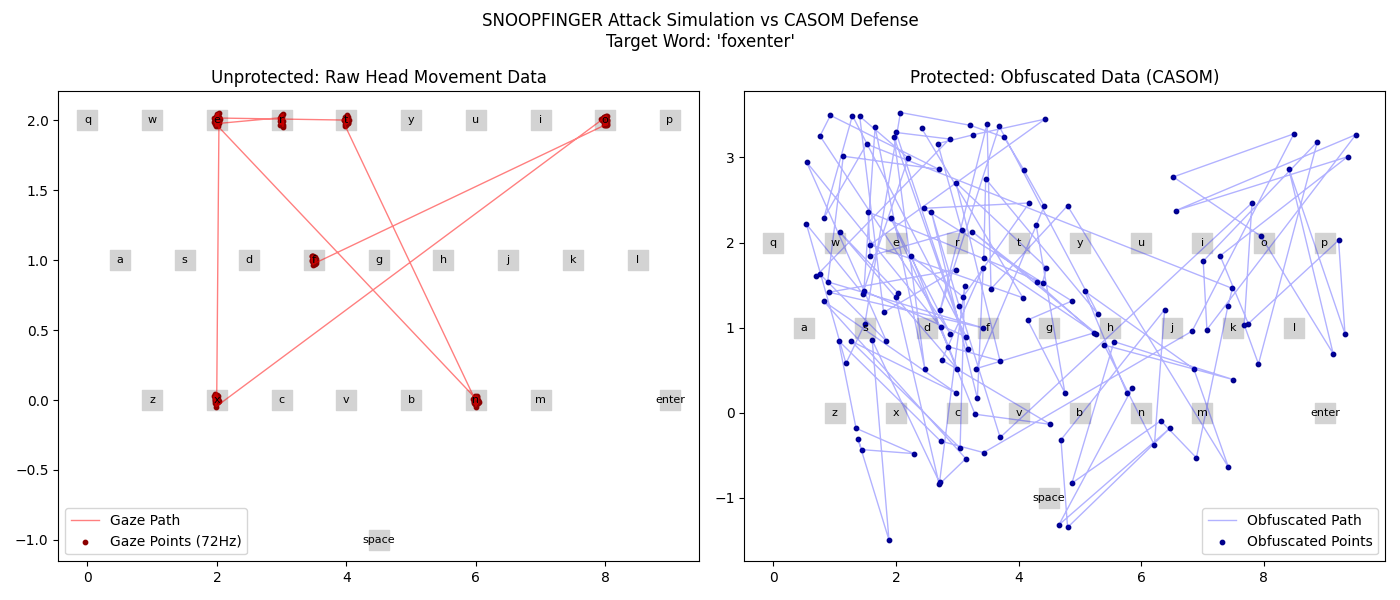
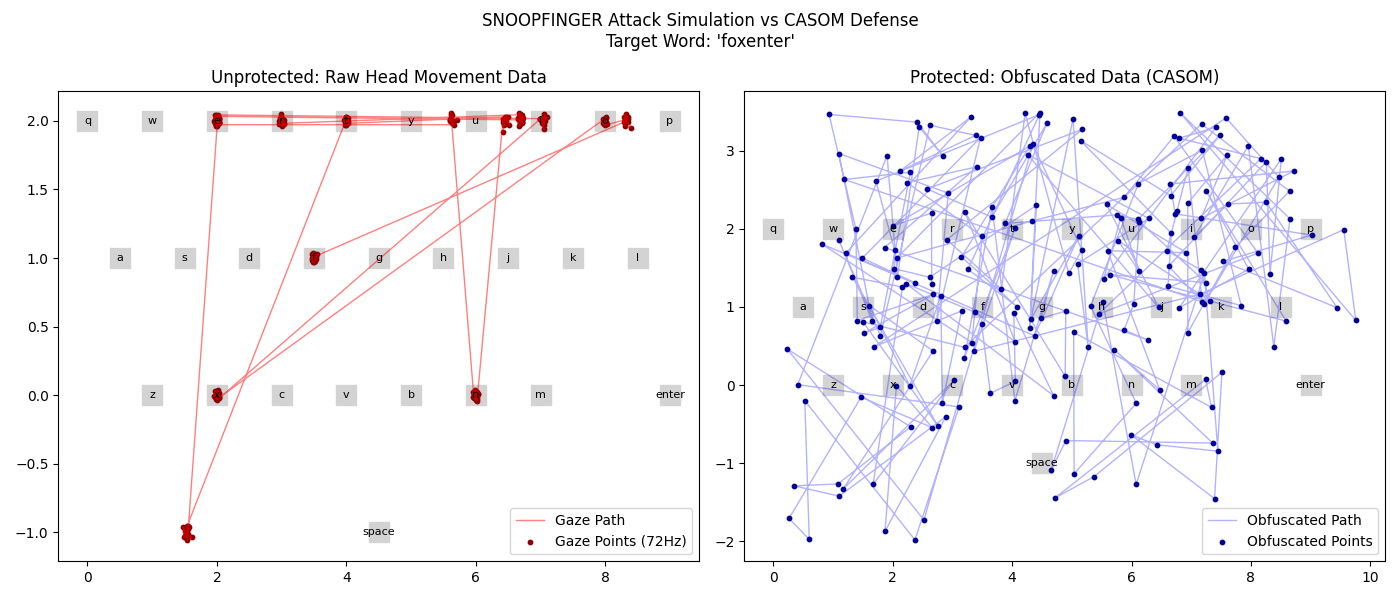
Document and simulate newly identified gaps (deviation gestures, external tampering) in SNOOPFINGER

diff --git a/Demo.html b/Demo.html
@@ -768,6 +768,21 @@
             </div>
           </div>
           
+          <div class="form-group" style="margin-bottom: 24px; border-top: 1px solid var(--border-color); padding-top: 16px;">
+            <label>Simulation Bypasses</label>
+            <div style="display: flex; flex-direction: column; gap: 10px; margin-top: 8px;">
+              <label style="display: flex; align-items: center; gap: 8px; text-transform: none; font-size: 0.85rem; color: var(--text-primary); cursor: pointer;">
+                <input type="checkbox" id="chk-deviation" style="cursor: pointer; width: 16px; height: 16px;">
+                User Deviation Gestures (Gap 1)
+              </label>
+              <label style="display: flex; align-items: center; gap: 8px; text-transform: none; font-size: 0.85rem; color: var(--text-primary); cursor: pointer;">
+                <input type="checkbox" id="chk-tampering" style="cursor: pointer; width: 16px; height: 16px;">
+                External Sensor Tampering (Gap 2)
+              </label>
+            </div>
+            <span class="helper-text" style="margin-top: 6px;">Demonstrates that both active user-driven motions and external vibrations bypass SNOOPFINGER's passive threat model.</span>
+          </div>
+          
           <button type="button" id="btn-play" class="btn btn-primary">
             <span>Start Telemetry Stream</span>
           </button>
@@ -955,6 +970,21 @@
             </div>
 
             <div>
+              <h3 style="margin-bottom: 12px; color: #ffffff;">Critical Gaps in SNOOPFINGER's Attack Model</h3>
+              <p style="color: var(--text-secondary); margin-bottom: 14px;">
+                While SNOOPFINGER's threat model holds under passive conditions, it contains two fundamental assumptions that can easily be exploited to neutralize the threat:
+              </p>
+              <ul style="color: var(--text-secondary); margin-left: 20px; margin-bottom: 14px; display: flex; flex-direction: column; gap: 8px;">
+                <li>
+                  <strong>User Deviation Gestures (Gap 1 - Manual Bypass)</strong>: The attack relies on passive, direct head trajectories matching key coordinates. If a user intentionally makes random or sweeping head movements (e.g. nodding, circular detours) while typing, the background attacker receives these gestures. The attack has no mechanism to differentiate real typing dwells from user-driven detour gestures, resulting in completely scrambled keystroke outputs.
+                </li>
+                <li>
+                  <strong>External Sensor Tampering & Environmental Noise (Gap 2 - Environmental Fragility)</strong>: The attack assumes that head orientation data represents only typing gestures. Physical vibrations (like riding a bumpy bus, walking) or hardware-level sensor noise injection alter the raw telemetry. The attack algorithm has no sensor-origin verification and cannot separate target key dwells from external vibrations, rendering the attack fragile outside a static environment.
+                </li>
+              </ul>
+            </div>
+
+            <div>
               <h3 style="margin-bottom: 12px; color: #ffffff;">Python Reference Implementation (Defender Core)</h3>
               <div class="code-block">
 <span class="comment"># Extract from casom_defense.py</span>
@@ -1040,12 +1070,51 @@
       
       const normalizedWord = word.toLowerCase().replace(/[^a-z]/g, '') + 'enter';
       
+      const simulateDeviation = document.getElementById('chk-deviation') ? document.getElementById('chk-deviation').checked : false;
+      const simulateTampering = document.getElementById('chk-tampering') ? document.getElementById('chk-tampering').checked : false;
+      
       for (let i = 0; i < normalizedWord.length; i++) {
         const ch = normalizedWord[i] === 'e' && normalizedWord.slice(i, i+5) === 'enter' ? 'enter' : normalizedWord[i];
         if (ch === 'e' && normalizedWord.slice(i, i+5) === 'enter') i += 4; // Skip rest of 'enter'
         
         if (!KEYBOARD_LAYOUT[ch]) continue;
         const target = KEYBOARD_LAYOUT[ch];
+        
+        // Simulating Gap 1: User Deviation Gestures (Fake detours and dwells)
+        if (simulateDeviation && i > 0 && rng() > 0.4) {
+          // Generate a fake detour target coordinate
+          const fakeTarget = [1.0 + rng() * 8.0, rng() > 0.5 ? 2.0 : -1.0];
+          
+          // Travel phase to fake target
+          const distFake = Math.hypot(fakeTarget[0] - cur[0], fakeTarget[1] - cur[1]);
+          const travelFakeSteps = Math.max(Math.floor(distFake * 6), 4);
+          for (let j = 0; j < travelFakeSteps; j++) {
+            const t = j / travelFakeSteps;
+            const px = cur[0] + (fakeTarget[0] - cur[0]) * t;
+            const py = cur[1] + (fakeTarget[1] - cur[1]) * t;
+            points.push({
+              x: px + (rng() - 0.5) * 0.02,
+              y: py + (rng() - 0.5) * 0.02,
+              isTyping: false,
+              char: 'None'
+            });
+          }
+          
+          // Dwell phase at fake target
+          const dwellFakeSteps = 15;
+          const startFakeIdx = points.length;
+          for (let j = 0; j < dwellFakeSteps; j++) {
+            points.push({
+              x: fakeTarget[0] + sampleGaussian(rng, 0, 0.03),
+              y: fakeTarget[1] + sampleGaussian(rng, 0, 0.03),
+              isTyping: true,
+              char: 'Fake'
+            });
+          }
+          segments.push([startFakeIdx, points.length]);
+          chars.push('Fake');
+          cur = fakeTarget;
+        }
         
         // 1. Travel Phase: linear path from current to target
         const dist = Math.hypot(target[0] - cur[0], target[1] - cur[1]);
@@ -1081,6 +1150,18 @@
         chars.push(ch);
         cur = target;
       }
+      
+      // Simulating Gap 2: External Sensor Tampering (oscillatory/vibrational noise)
+      if (simulateTampering) {
+        for (let idx = 0; idx < points.length; idx++) {
+          const t = idx * (1.0 / 72.0);
+          const vibX = Math.sin(2 * Math.PI * 15 * t) * 0.45 + sampleGaussian(rng, 0, 0.25);
+          const vibY = Math.cos(2 * Math.PI * 15 * t) * 0.45 + sampleGaussian(rng, 0, 0.25);
+          points[idx].x += vibX;
+          points[idx].y += vibY;
+        }
+      }
+      
       return { points, segments, chars };
     }
 
@@ -1646,6 +1727,8 @@
       });
       
       document.getElementById('btn-play').addEventListener('click', triggerSimulation);
+      document.getElementById('chk-deviation').addEventListener('change', triggerSimulation);
+      document.getElementById('chk-tampering').addEventListener('change', triggerSimulation);
       
       // Auto run first load
       triggerSimulation();

diff --git a/create_dataset.py b/create_dataset.py
@@ -19,10 +19,11 @@ def minimum_jerk_trajectory(t, duration, p_start, p_end):
     y = p_start[1] + (p_end[1] - p_start[1]) * scale
     return x, y
 
-def create_vr_telemetry(word, filename="vr_telemetry_dataset.csv", noise_level=0.15):
+def create_vr_telemetry(word, filename="vr_telemetry_dataset.csv", noise_level=0.15, simulate_deviation=False, simulate_tampering=False):
     """
     Generates a realistic mock dataset mimicking Oculus Quest 2 telemetry at 72 Hz
     using Fitts's Law, Minimum-Jerk trajectories, and physiological tremor.
+    Supports simulating user deviation gestures (Gap 1) and external tampering (Gap 2).
     Writes the data to a CSV file.
     """
     with open(filename, mode='w', newline='') as file:
@@ -36,11 +37,54 @@ def create_vr_telemetry(word, filename="vr_telemetry_dataset.csv", noise_level=0
         # Starting position (assume looking at the center of the keyboard initially)
         current_pos = (4.5, 1.0) 
         
-        for char in word.lower():
+        for idx, char in enumerate(word.lower()):
             if char not in KEYBOARD_LAYOUT:
                 continue
                 
             target_pos = KEYBOARD_LAYOUT[char]
+            
+            # Simulating Gap 1: User Deviation Gestures (Fake detours and dwells)
+            if simulate_deviation and idx > 0 and random.random() > 0.4:
+                fake_target = (random.uniform(1.0, 9.0), random.choice([2.0, -1.0]))
+                dist_fake = math.hypot(fake_target[0] - current_pos[0], fake_target[1] - current_pos[1])
+                
+                # Travel phase to fake target
+                movement_time = generate_fitts_movement_time(dist_fake)
+                num_travel_frames = max(int(movement_time / time_step), 3)
+                for i in range(num_travel_frames):
+                    t = i * time_step
+                    base_x, base_y = minimum_jerk_trajectory(t, movement_time, current_pos, fake_target)
+                    px = base_x + random.gauss(0, 0.02)
+                    py = base_y + random.gauss(0, 0.02)
+                    pz = random.gauss(0.5, 0.01)
+                    
+                    if simulate_tampering:
+                        vib_x = math.sin(2 * math.pi * 15 * timestamp) * 0.45 + random.gauss(0, 0.25)
+                        vib_y = math.cos(2 * math.pi * 15 * timestamp) * 0.45 + random.gauss(0, 0.25)
+                        px += vib_x
+                        py += vib_y
+                        
+                    writer.writerow([f"{timestamp:.3f}", f"{px:.4f}", f"{py:.4f}", f"{pz:.4f}", 'False', 'None'])
+                    timestamp += time_step
+                
+                # Dwell phase at fake target
+                dwell_time = random.uniform(0.15, 0.25)
+                num_dwell_frames = int(dwell_time / time_step)
+                for i in range(num_dwell_frames):
+                    px = fake_target[0] + random.gauss(0, 0.03)
+                    py = fake_target[1] + random.gauss(0, 0.03)
+                    pz = random.gauss(0.5, 0.005)
+                    
+                    if simulate_tampering:
+                        vib_x = math.sin(2 * math.pi * 15 * timestamp) * 0.45 + random.gauss(0, 0.25)
+                        vib_y = math.cos(2 * math.pi * 15 * timestamp) * 0.45 + random.gauss(0, 0.25)
+                        px += vib_x
+                        py += vib_y
+                        
+                    writer.writerow([f"{timestamp:.3f}", f"{px:.4f}", f"{py:.4f}", f"{pz:.4f}", 'True', 'Fake'])
+                    timestamp += time_step
+                current_pos = fake_target
+            
             dist = math.hypot(target_pos[0] - current_pos[0], target_pos[1] - current_pos[1])
             
             # 1. Travel phase (Saccade/Head movement towards the key)
@@ -63,11 +107,16 @@ def create_vr_telemetry(word, filename="vr_telemetry_dataset.csv", noise_level=0
                 py = base_y + tremor_y + noise_y
                 pz = random.gauss(0.5, 0.01) # fairly stable depth
                 
+                if simulate_tampering:
+                    vib_x = math.sin(2 * math.pi * 15 * timestamp) * 0.45 + random.gauss(0, 0.25)
+                    vib_y = math.cos(2 * math.pi * 15 * timestamp) * 0.45 + random.gauss(0, 0.25)
+                    px += vib_x
+                    py += vib_y
+                    
                 writer.writerow([f"{timestamp:.3f}", f"{px:.4f}", f"{py:.4f}", f"{pz:.4f}", 'False', 'None'])
                 timestamp += time_step
                 
             # 2. Dwell phase (Fixation on the key to simulate a "keypress")
-            # Usually takes 150-300ms to register a dwell click
             dwell_time = random.uniform(0.15, 0.3)
             num_dwell_frames = int(dwell_time / time_step)
             
@@ -85,13 +134,29 @@ def create_vr_telemetry(word, filename="vr_telemetry_dataset.csv", noise_level=0
                 py = target_pos[1] + tremor_y + noise_y
                 pz = random.gauss(0.5, 0.005)
                 
+                if simulate_tampering:
+                    vib_x = math.sin(2 * math.pi * 15 * timestamp) * 0.45 + random.gauss(0, 0.25)
+                    vib_y = math.cos(2 * math.pi * 15 * timestamp) * 0.45 + random.gauss(0, 0.25)
+                    px += vib_x
+                    py += vib_y
+                    
                 writer.writerow([f"{timestamp:.3f}", f"{px:.4f}", f"{py:.4f}", f"{pz:.4f}", 'True', char])
                 timestamp += time_step
 
     print(f"[*] Realistic dataset successfully generated and saved to '{filename}'.")
 
 if __name__ == "__main__":
-    # Generate a dataset for testing the attack and defense
-    target_word = sys.argv[1] if len(sys.argv) > 1 else "foxenter"
-    print(f"[*] Generating realistic VR telemetry dataset for target word: '{target_word}'...")
-    create_vr_telemetry(target_word)
+    import argparse
+    parser = argparse.ArgumentParser(description="Generate synthetic head-pose gaze telemetry dataset.")
+    parser.add_argument("word", nargs="?", default="foxenter", help="Word to simulate typing.")
+    parser.add_argument("--simulate-deviation", action="store_true", help="Simulate Gap 1 (User deviation gestures).")
+    parser.add_argument("--simulate-tampering", action="store_true", help="Simulate Gap 2 (External sensor tampering/vibrations).")
+    args = parser.parse_args()
+    
+    print(f"[*] Generating realistic VR telemetry dataset for target word: '{args.word}'...")
+    if args.simulate_deviation:
+        print("    [!] Mode: User Deviation Gestures (Gap 1) enabled.")
+    if args.simulate_tampering:
+        print("    [!] Mode: External Sensor Tampering (Gap 2) enabled.")
+        
+    create_vr_telemetry(args.word, simulate_deviation=args.simulate_deviation, simulate_tampering=args.simulate_tampering)

diff --git a/make_pptx_clean.py b/make_pptx_clean.py
@@ -152,14 +152,27 @@ def main():
     slide.shapes.add_picture("math_yaw.png", Inches(5.3), Inches(3.2), width=Inches(4.1))
 
     # -------------------------------------------------------------------------
-    # Slide 4: Identified Gaps & Limitations
+    # Slide 4: Identified Gaps in SNOOPFINGER's Attack Model
     # -------------------------------------------------------------------------
     slide = prs.slides.add_slide(prs.slide_layouts[6])
     set_slide_background(slide, COLOR_BG)
-    add_header(slide, "Identified Gaps & Defense Limitations")
+    add_header(slide, "Gaps in SNOOPFINGER's Attack Model")
     
     tf = create_textbox(slide, Inches(0.6), Inches(1.4), Inches(8.8), Inches(3.8))
-    add_bullet(tf, "The SNOOPFINGER IEEE paper discusses countermeasures (e.g. Obfuscation) but provides no implementation code or API design.", bold_prefix="Abstract Proposal Gap: ")
+    add_bullet(tf, "The attack relies on passive, direct head trajectories matching key coordinates.", bold_prefix="Trajectory Assumption: ")
+    add_bullet(tf, "If a user intentionally performs extraneous head gestures (nods, shakes, circles) while typing, the background attacker cannot differentiate typing dwells from intentional deviations. This serves as a direct manual bypass.", bold_prefix="User Deviation Bypass (Gap 1): ", color=COLOR_ACCENT_GREEN)
+    add_bullet(tf, "The attack assumes telemetry represents only keyboard interaction gestures.", bold_prefix="Telemetry Assumption: ")
+    add_bullet(tf, "External physical vibrations (e.g., traveling in a moving vehicle, walking) or hardware-level sensor tampering alter the raw telemetry. The attack algorithm has no sensor-origin authentication and cannot separate target dwells from vibrations.", bold_prefix="External Tampering & Noise (Gap 2): ", color=COLOR_ACCENT_RED)
+
+    # -------------------------------------------------------------------------
+    # Slide 5: Identified Gaps in Proposed Countermeasures
+    # -------------------------------------------------------------------------
+    slide = prs.slides.add_slide(prs.slide_layouts[6])
+    set_slide_background(slide, COLOR_BG)
+    add_header(slide, "Identified Gaps in Proposed Countermeasures")
+    
+    tf = create_textbox(slide, Inches(0.6), Inches(1.4), Inches(8.8), Inches(3.8))
+    add_bullet(tf, "The SNOOPFINGER IEEE paper discusses countermeasures (e.g., Obfuscation) but provides no implementation code or API design.", bold_prefix="Abstract Proposal Gap: ")
     add_bullet(tf, "Adding simple independent random noise per frame degrades coordinate utility for background games/apps without stopping attackers.", bold_prefix="Utility Degradation: ")
     add_bullet(tf, "The paper assumes simple attackers. It does not evaluate defenses against adaptive adversaries or geometric attacks like BackTree.", bold_prefix="Evaluation Deficit: ")
     add_bullet(tf, "Virtual keyboard typing detection must be context-aware; static noise injection would break normal AR/VR head tracking gestures.", bold_prefix="Usability Conflict: ", color=COLOR_ACCENT_RED)